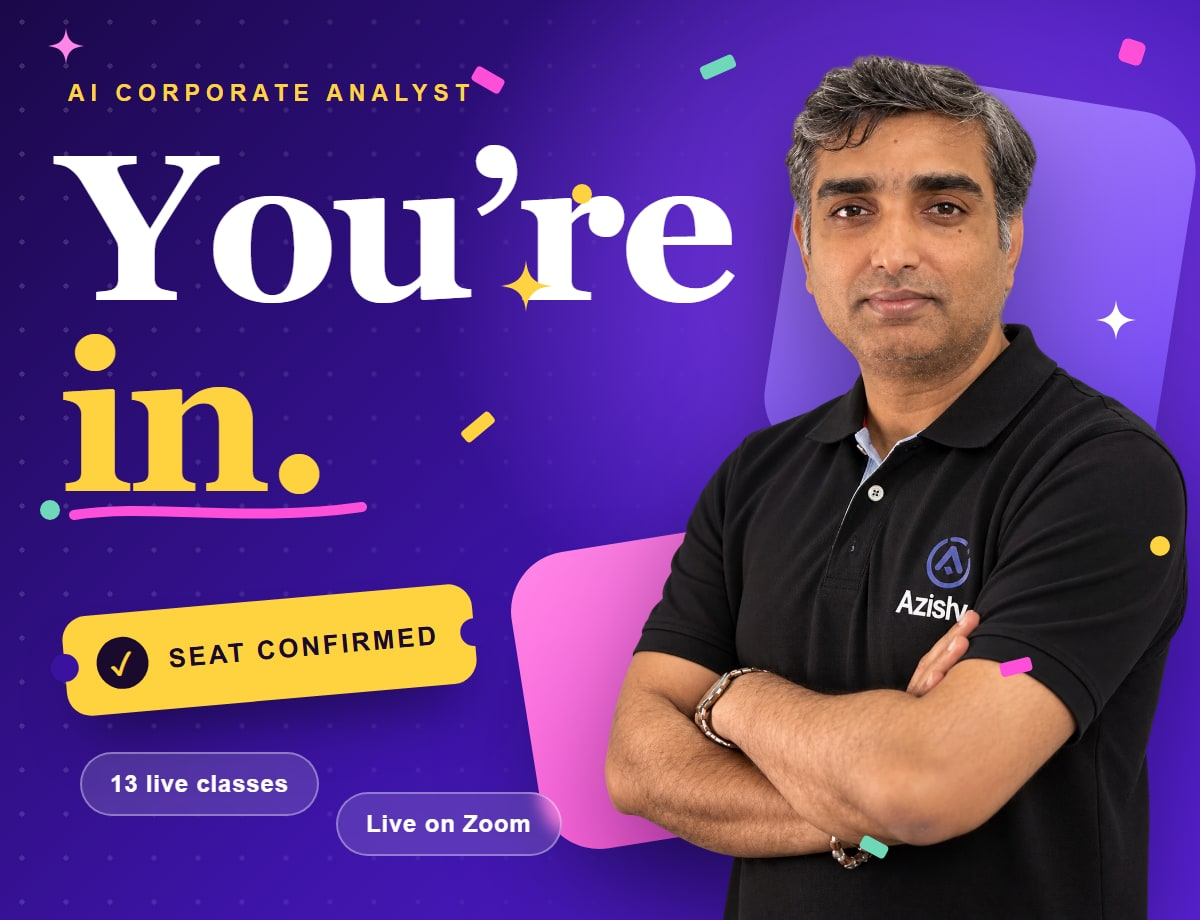
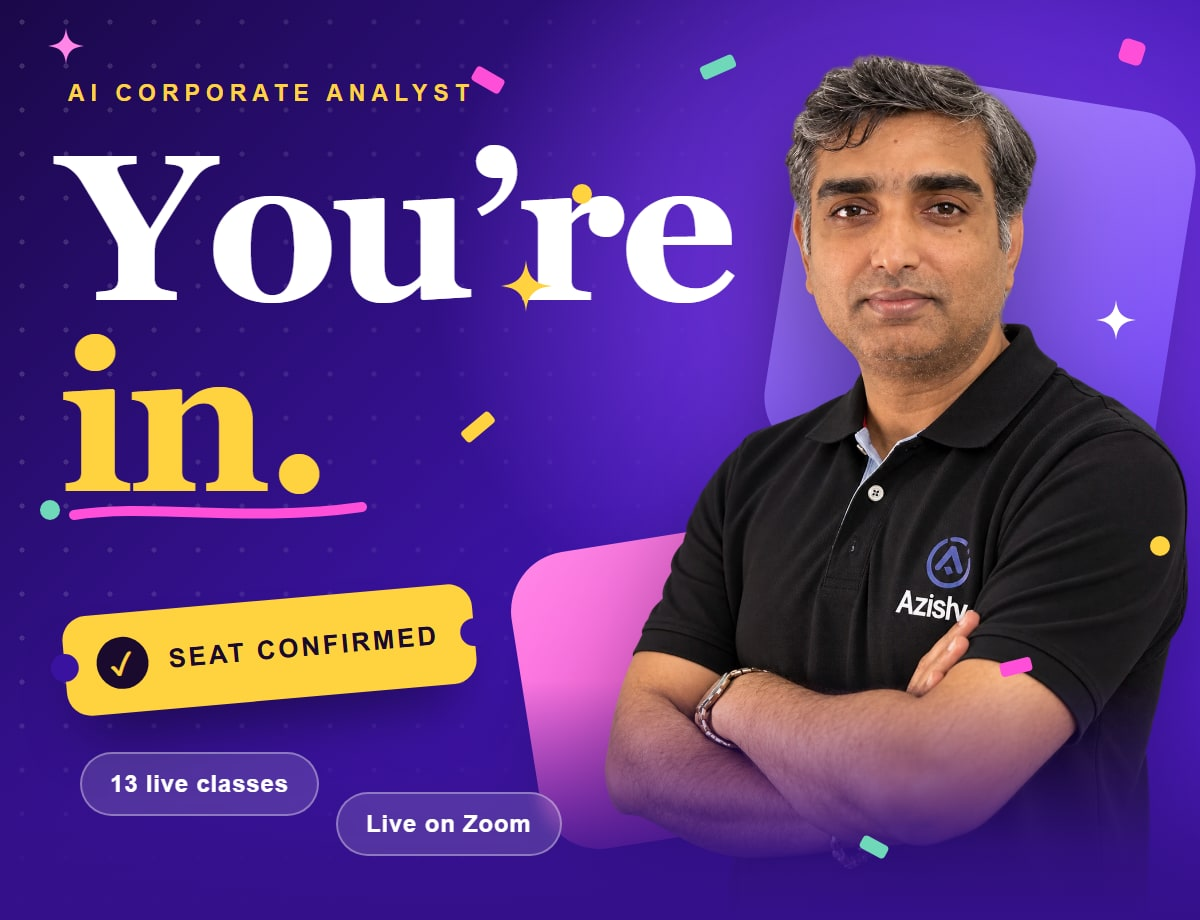
Welcome email: blend hero, band, schedule and link sections with soft fades instead of hard seams

Changed region(s): [[0.1233, 0.7609, 1.0, 1.0]]

diff --git a/src/lib/email/welcome.ts b/src/lib/email/welcome.ts
@@ -170,10 +170,10 @@ ${sampleNotice}
   <table role="presentation" width="600" cellpadding="0" cellspacing="0" border="0" style="width:100%;max-width:600px;background:#ffffff;border-radius:24px;overflow:hidden;">
 
     <!-- hero artwork -->
-    <tr><td style="font-size:0;line-height:0;" bgcolor="#3d14a8"><img src="${esc(img("email/hero.jpg"))}" width="600" alt="You're in. Seat confirmed for AI Corporate Analyst, with Prasun Choudhary." style="display:block;width:100%;max-width:600px;height:auto;border:0;"></td></tr>
+    <tr><td style="font-size:0;line-height:0;" bgcolor="#34108a"><img src="${esc(img("email/hero.jpg"))}" width="600" alt="You're in. Seat confirmed for AI Corporate Analyst, with Prasun Choudhary." style="display:block;width:100%;max-width:600px;height:auto;border:0;"></td></tr>
 
     <!-- 1 thanks: dark band with the graduation cap -->
-    <tr><td bgcolor="#24095a" style="background-color:#24095a;background-image:url('${esc(img("email/band.jpg"))}');background-size:cover;background-position:center;">
+    <tr><td bgcolor="#2a0d6c" style="background-color:#2a0d6c;background-image:url('${esc(img("email/band.jpg"))}');background-size:cover;background-position:center;">
       <table role="presentation" width="100%" cellpadding="0" cellspacing="0" border="0"><tr>
         <td class="stack pad" valign="middle" style="padding:38px 0 10px 36px;">
           <p style="margin:0;font-family:${SANS};font-size:12.5px;font-weight:bold;letter-spacing:4px;text-transform:uppercase;color:#cdbbff;">Congratulations${first ? `, ${hello}` : ""}</p>
@@ -194,7 +194,7 @@ ${sampleNotice}
       </td></tr></table>
     </td></tr>
     <!-- 2 welcome: a note from Prasun -->
-    <tr><td class="pad" style="padding:26px 36px 14px 36px;">
+    <tr><td bgcolor="${DEEP}" style="background:${DEEP};font-size:0;line-height:0;"><table role="presentation" width="100%" cellpadding="0" cellspacing="0" border="0"><tr><td class="pad" bgcolor="#ffffff" style="background:#ffffff;border-radius:0 0 26px 26px;padding:26px 36px 36px 36px;font-size:16px;line-height:normal;">
       ${pill("2", "Welcome", "#e9e1ff", PURPLE)}
       <table role="presentation" width="100%" cellpadding="0" cellspacing="0" border="0" style="margin-top:16px;border-radius:20px;background-color:#f6f2ff;border:2px solid #e3d8ff;"><tr><td style="padding:26px 26px 24px 26px;">
         <table role="presentation" cellpadding="0" cellspacing="0" border="0"><tr>
@@ -205,7 +205,8 @@ ${sampleNotice}
         <p style="margin:16px 0 0 0;font-family:${SERIF};font-size:30px;line-height:34px;font-style:italic;color:${PURPLE};">Prasun</p>
         <p style="margin:0;font-family:${SANS};font-size:12.5px;line-height:18px;color:${MUTED};">Founder, Azisly.ai</p>
       </td></tr></table>
-    </td></tr>
+    </td></tr></table></td></tr>
+
     <!-- 3 schedule (dark) -->
     <tr><td class="pad" bgcolor="${DEEP}" style="background:${DEEP};padding:34px 36px 26px 36px;">
       ${pill("3", "Schedule", YELLOW, "#1a0a2e")}
@@ -228,13 +229,16 @@ ${sampleNotice}
     
     </td></tr>
 
-    <!-- 4 link (gradient) -->
-    <tr><td class="pad" bgcolor="#6a2bd9" style="background-color:#6a2bd9;background-image:linear-gradient(135deg,#4b1fb8 0%,#8a2fe0 55%,#d02fc4 100%);padding:36px 36px 38px 36px;">
-      ${pill("4", "Your link", "#ffffff", PURPLE)}
-      <h2 style="margin:16px 0 10px 0;font-family:${SERIF};font-size:30px;line-height:36px;color:#ffffff;">Your seat is one tap away.</h2>
-      ${linkBlock}
+    <!-- 4 link (gradient): dissolves in from the dark section above and out into the cream card below -->
+    <tr><td bgcolor="#6a2bd9" style="background-color:#6a2bd9;background-image:linear-gradient(135deg,#4b1fb8 0%,#8a2fe0 55%,#d02fc4 100%);">
+      <img src="${esc(img("email/fade-from-dark.png"))}" width="600" alt="" style="display:block;width:100%;max-width:600px;height:auto;border:0;">
+      <table role="presentation" width="100%" cellpadding="0" cellspacing="0" border="0"><tr><td class="pad" style="padding:4px 36px 6px 36px;">
+        ${pill("4", "Your link", "#ffffff", PURPLE)}
+        <h2 style="margin:16px 0 10px 0;font-family:${SERIF};font-size:30px;line-height:36px;color:#ffffff;">Your seat is one tap away.</h2>
+        ${linkBlock}
+      </td></tr></table>
+      <img src="${esc(img("email/fade-to-cream.png"))}" width="600" alt="" style="display:block;width:100%;max-width:600px;height:auto;border:0;margin-top:14px;">
     </td></tr>
-
     <!-- Azisly banner: light cream card with the robot, at the very end -->
     <tr><td class="pad" bgcolor="#f7f2ff" style="background:#f7f2ff;padding:36px 36px 4px 36px;">
       <p style="margin:0 0 10px 0;font-family:${SANS};font-size:11.5px;font-weight:bold;letter-spacing:2.6px;text-transform:uppercase;color:#4b2aa8;">A gift for ${esc(banner.audience.toLowerCase())}</p>

diff --git a/scripts/email-art/band.html b/scripts/email-art/band.html
@@ -3,8 +3,9 @@
 <!-- Source for public/email/band.jpg. Render: msedge --headless=new --window-size=600,300 --force-device-scale-factor=2 --screenshot=band.png band.html -->
 <style>
   html, body { margin: 0; }
-  body { width: 600px; height: 300px; overflow: hidden; position: relative;
-    background: radial-gradient(ellipse 45% 90% at 82% 55%, rgba(139,92,246,.55) 0%, rgba(139,92,246,0) 70%), linear-gradient(165deg, #3a128f 0%, #26095f 55%, #1c0b4c 100%); }
+  body { width: 600px; height: 300px; overflow: hidden; position: relative; background: linear-gradient(180deg, #34108a 0%, #2a0d6c 45%, #1c0b4c 100%); }
+  body:before { content: ""; position: absolute; inset: 0; background: radial-gradient(ellipse 45% 70% at 82% 62%, rgba(139,92,246,.5) 0%, rgba(139,92,246,0) 70%);
+    -webkit-mask-image: linear-gradient(to bottom, transparent 0%, #000 40%); mask-image: linear-gradient(to bottom, transparent 0%, #000 40%); }
   svg { position: absolute; }
 </style>
 <svg style="left:40px;top:26px" width="22" height="22" viewBox="0 0 24 24"><path d="M12 0 C12.8 8 16 11.2 24 12 C16 12.8 12.8 16 12 24 C11.2 16 8 12.8 0 12 C8 11.2 11.2 8 12 0Z" fill="#cdbbff" opacity=".8"/></svg>

diff --git a/scripts/email-art/hero.html b/scripts/email-art/hero.html
@@ -24,6 +24,7 @@
   .chip { position: absolute; background: rgba(255,255,255,.14); border: 1px solid rgba(255,255,255,.35); color: #fff; font: bold 12px Arial, sans-serif; letter-spacing: .4px; padding: 8px 14px; border-radius: 999px; backdrop-filter: blur(4px); }
   .c1 { left: 40px; top: 376px; } .c2 { left: 168px; top: 396px; }
   .conf { position: absolute; }
+  .fade { position: absolute; left: 0; right: 0; bottom: 0; height: 120px; background: linear-gradient(to bottom, rgba(52,16,138,0) 0%, rgba(52,16,138,.85) 70%, #34108a 100%); }
   svg.star { position: absolute; }
 </style>
 <div class="dots"></div>
@@ -31,6 +32,7 @@
 <div class="sq b"></div>
 <img class="p" src="../../public/faculty/prasun-cutout.webp">
 
+<div class="fade"></div>
 <div class="eyebrow">AI CORPORATE ANALYST</div>
 <h1><span>You&rsquo;re</span><span class="in">in.<svg class="under" viewBox="0 0 150 12" preserveAspectRatio="none"><path d="M3 8 C 40 2, 90 12, 147 4" fill="none" stroke="#ff4fd8" stroke-width="5" stroke-linecap="round"/></svg></span></h1>
 
